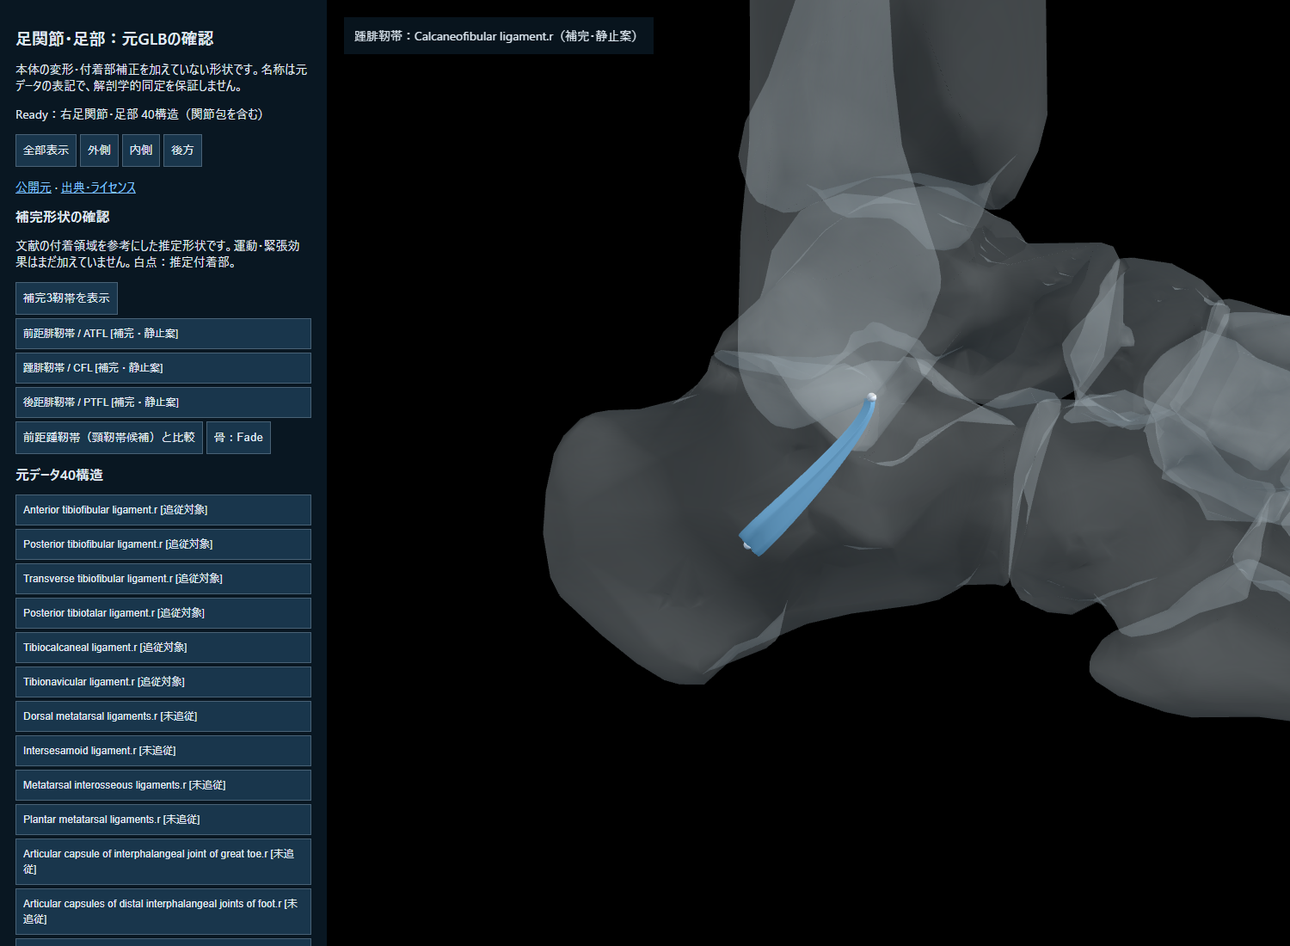
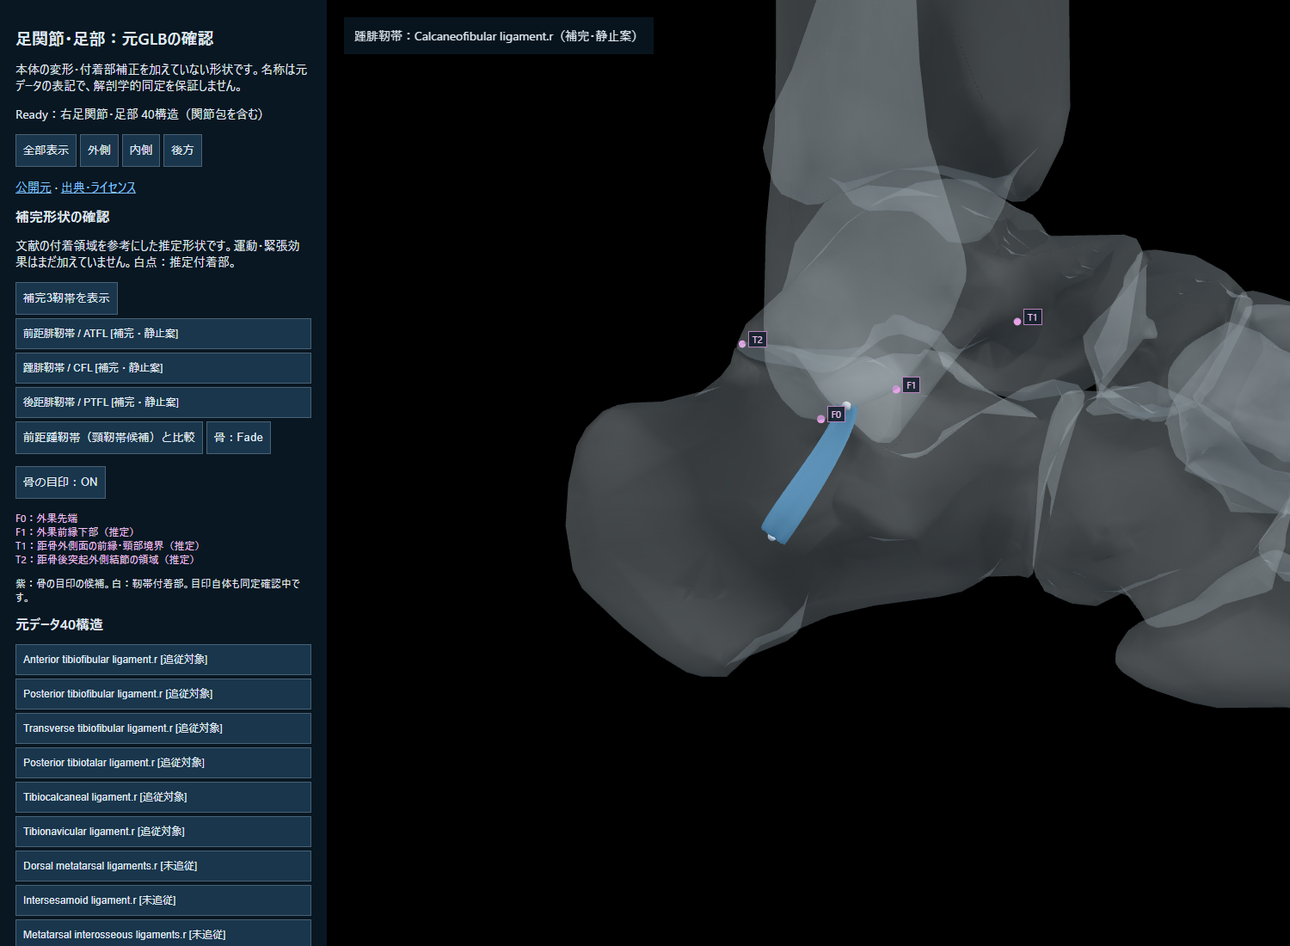
Constrain attachment regions and expose proposed bone landmarks

diff --git a/src/ankle-supplements.js b/src/ankle-supplements.js
@@ -1,42 +1,53 @@
-import {Vector3,Group,Mesh,MeshStandardMaterial,SphereGeometry,BufferGeometry,Float32BufferAttribute} from 'three';
-import {ankleSupplements} from '../config/ankle-supplements.js';
+import {Vector3,Triangle,Group,Mesh,MeshStandardMaterial,SphereGeometry,BufferGeometry,Float32BufferAttribute} from 'three';
+import {ankleSupplements,ankleReviewLandmarks} from '../config/ankle-supplements.js';
+
+// Clip the actual surface triangle to a proposed anatomical region. Filtering
+// only its unconstrained closest point can falsely report an empty region.
+function regionPoint(face,surface,seed,region){
+ let polygon=[face.triangle.a,face.triangle.b,face.triangle.c].map(p=>p.clone().applyMatrix4(surface.world));
+ for(const [axis,[lo,hi]] of Object.entries(region))for(const [limit,sign] of [[lo,1],[hi,-1]]){
+  const next=[];for(let i=0;i<polygon.length;i++){const a=polygon[i],b=polygon[(i+1)%polygon.length],da=sign*(a[axis]-limit),db=sign*(b[axis]-limit);if(da>=0)next.push(a);if((da>=0)!==(db>=0))next.push(a.clone().lerp(b,da/(da-db)));}polygon=next;if(polygon.length<3)return null;
+ }
+ let best=null,distance=Infinity;for(let i=1;i<polygon.length-1;i++){const p=new Triangle(polygon[0],polygon[i],polygon[i+1]).closestPointToPoint(seed,new Vector3()),d=p.distanceToSquared(seed);if(d<distance){best=p;distance=d;}}return best;
+}
 
 // Static review geometry only. No modification of raw source meshes, axes,
 // existing followers or tension rules. Footprints are projected onto real bone
 // triangles; anatomical locations remain review estimates, not registered scans.
 export function createAnkleSupplements(bones){
  const fibula=bones.get('Fibula.r'),all=[...bones.values()],vertices=fibula.faces.flatMap(f=>[f.triangle.a,f.triangle.b,f.triangle.c].map(p=>p.clone().applyMatrix4(fibula.world))),tip=vertices.reduce((a,b)=>a.y<b.y?a:b).clone();
- const outside=(p,owner=null,tolerance=.000025)=>!all.some(s=>{if(s===owner)return false;const q=p.clone().applyMatrix4(s.inverse);return s.tree.box.containsPoint(q)&&s.insideLocal(q)&&s.nearestLocal(q).distance>tolerance;});
- function fit(seed,surface,normalPreference){
+ let collision=null;const outside=(p,owner=null,tolerance=.000025)=>!all.some(s=>{if(s===owner)return false;const q=p.clone().applyMatrix4(s.inverse),bad=s.tree.box.containsPoint(q)&&s.insideLocal(q)&&s.nearestLocal(q).distance>tolerance;if(bad)collision={bone:s.bone.userData.za_name,p:p.toArray(),depth:s.nearestLocal(q).distance};return bad;});
+ function fit(seed,surface,normalPreference,region=null,minDot=.65){
   const local=seed.clone().applyMatrix4(surface.inverse),candidates=surface.faces.map(f=>{
-   const p=f.triangle.closestPointToPoint(local,new Vector3()).applyMatrix4(surface.world),n=f.triangle.getNormal(new Vector3()).multiplyScalar(surface.normalSign).transformDirection(surface.world);
-   return {p,n,surface,triangle:f.triangle,score:p.distanceToSquared(seed),facing:!normalPreference||n.dot(normalPreference.clone().normalize())>.65};
-  }).filter(c=>c.facing&&outside(c.p,surface));
-  candidates.sort((a,b)=>a.score-b.score);if(!candidates.length)throw Error('No exposed attachment surface');return candidates[0];
+   const p=region?regionPoint(f,surface,seed,region):f.triangle.closestPointToPoint(local,new Vector3()).applyMatrix4(surface.world);if(!p)return null;const n=f.triangle.getNormal(new Vector3()).multiplyScalar(surface.normalSign).transformDirection(surface.world);
+   return {p,n,surface,triangle:f.triangle,score:p.distanceToSquared(seed),facing:!normalPreference||n.dot(normalPreference.clone().normalize())>minDot};
+  }).filter(c=>c&&c.facing&&outside(c.p,surface));
+  candidates.sort((a,b)=>a.score-b.score);if(!candidates.length)throw Error('No exposed attachment surface: '+surface.bone.userData.za_name+' '+JSON.stringify(region));return candidates[0];
  }
  const entries=[];
  for(const spec of ankleSupplements){
   const distal=bones.get(spec.bone),seed=tip.clone().add(new Vector3(...spec.fibularOffset));
-  const a=fit(seed,fibula,spec.fibularSide==='anterior'?new Vector3(0,0,1):new Vector3(1,0,0)),b=fit(new Vector3(...spec.distalSeed),distal,spec.id==='PTFL'?new Vector3(0,0,-1):spec.id==='ATFL'?new Vector3(-.7,0,.7):new Vector3(-1,0,0));
+  const a=fit(seed,fibula,spec.fibularSide==='anterior'?new Vector3(0,0,1):new Vector3(1,0,0),spec.fibularRegion,spec.id==='CFL'?.3:.65),b=fit(new Vector3(...spec.distalSeed),distal,spec.id==='PTFL'?new Vector3(0,-.4,-1):spec.id==='ATFL'?new Vector3(-.5,0,.866):new Vector3(-1,0,0),spec.distalRegion);
   const axis=b.p.clone().sub(a.p).normalize(),outward=new Vector3(...spec.outward).normalize(),side=new Vector3().crossVectors(axis,outward).normalize(),rows=48,cols=8,anchors=new Map(),base=[],indices=[],handle=Math.min(.004,a.p.distanceTo(b.p)*.25);
   for(let r=0;r<=rows;r++)for(let c=0;c<=cols;c++){
-   const t=r/rows,lateral=(c/cols-.5)*spec.width*(.8+.2*Math.sin(Math.PI*t));let p;
+   const t=r/rows,lateral=(c/cols-.5)*(r===rows&&spec.distalFootprintWidth?spec.distalFootprintWidth:spec.width*(.8+.2*Math.sin(Math.PI*t)));let p;
    if(r===0||r===rows){const end=r===0?a:b,foot=fit(end.p.clone().addScaledVector(side,lateral),end.surface,end.n);p=foot.p;anchors.set(base.length,foot);}
    else p=a.p.clone().multiplyScalar((1-t)**3).addScaledVector(a.p.clone().addScaledVector(a.n,handle),3*(1-t)**2*t).addScaledVector(b.p.clone().addScaledVector(b.n,handle),3*(1-t)*t*t).addScaledVector(b.p,t**3).addScaledVector(side,lateral);
    base.push(p);
   }
   // Each fibre connects its own footprint rather than a central origin.
-  for(let c=0;c<=cols;c++){const fa=anchors.get(c),fb=anchors.get(rows*(cols+1)+c);for(let r=1;r<rows;r++){const t=r/rows;base[r*(cols+1)+c]=fa.p.clone().multiplyScalar((1-t)**3).addScaledVector(fa.p.clone().addScaledVector(fa.n,handle),3*(1-t)**2*t).addScaledVector(fb.p.clone().addScaledVector(fb.n,handle),3*(1-t)*t*t).addScaledVector(fb.p,t**3);}}
+  for(let c=0;c<=cols;c++){const fa=anchors.get(c),fb=anchors.get(rows*(cols+1)+c);for(let r=1;r<rows;r++){const t=r/rows;base[r*(cols+1)+c]=fa.p.clone().multiplyScalar((1-t)**3).addScaledVector(fa.p.clone().addScaledVector(fa.n,handle),3*(1-t)**2*t).addScaledVector(fb.p.clone().addScaledVector(spec.id==='PTFL'?fb.n.clone().setY(Math.max(0,fb.n.y)).normalize():fb.n,spec.id==='PTFL'?Math.min(handle,.002):handle),3*(1-t)*t*t).addScaledVector(fb.p,t**3);}}
   for(let r=0;r<rows;r++)for(let c=0;c<cols;c++){const i=r*(cols+1)+c;indices.push(i,i+1,i+cols+1,i+1,i+cols+2,i+cols+1);}
-  const build=height=>base.map((p,i)=>{if(anchors.has(i))return p.clone();const t=Math.floor(i/(cols+1))/rows,c=i%(cols+1),direction=spec.id==='PTFL'?outward.clone().lerp(anchors.get(rows*(cols+1)+c).n,t*t).normalize():outward;return p.clone().addScaledVector(direction,Math.sqrt(Math.sin(Math.PI*t))*height);});
+  const build=height=>base.map((p,i)=>{if(anchors.has(i))return p.clone();const t=Math.floor(i/(cols+1))/rows,c=i%(cols+1),direction=spec.id==='PTFL'?outward.clone().lerp(anchors.get(rows*(cols+1)+c).n.clone().setY(Math.max(0,anchors.get(rows*(cols+1)+c).n.y)).normalize(),t*t).normalize():outward;return p.clone().addScaledVector(direction,Math.sqrt(Math.sin(Math.PI*t))*height);});
   const valid=ps=>ps.every((p,i)=>anchors.has(i)||outside(p))&&indices.every((_,i)=>i%3||outside(ps[indices[i]].clone().add(ps[indices[i+1]]).add(ps[indices[i+2]]).divideScalar(3)));
   let height=0,positions=build(0);for(;height<.025&&!valid(positions);height+=.00025)positions=build(height+.00025);
-  const routeValid=valid(positions);if(!routeValid)throw Error(spec.id+': static route could not clear bones');
+  const routeValid=valid(positions);if(!routeValid)throw Error(spec.id+': static route could not clear bones '+JSON.stringify({a:a.p.toArray(),b:b.p.toArray(),collision}));
   const geometry=new BufferGeometry().setAttribute('position',new Float32BufferAttribute(positions.flatMap(p=>p.toArray()),3)).setIndex(indices);geometry.computeVertexNormals();
   const group=new Group(),mesh=new Mesh(geometry,new MeshStandardMaterial({color:0x82b9e1,roughness:.7,side:2}));mesh.userData.za_name=spec.name;group.add(mesh);
   for(const [end,f] of [['腓骨',a],[spec.bone==='Talus.r'?'距骨':'踵骨',b]]){const marker=new Mesh(new SphereGeometry(.00065,12,8),new MeshStandardMaterial({color:0xf4f8ff,roughness:.5}));marker.position.copy(f.p);marker.userData.label=spec.jp+'：'+end+'付着部（推定）';group.add(marker);}
   const actual=positions.map((_,i)=>new Vector3().fromBufferAttribute(geometry.attributes.position,i)),gap=Math.max(...[...anchors].map(([i,f])=>f.surface.nearest(actual[i]).distance)),depth=p=>Math.max(0,...all.map(s=>-s.signedDistance(p)));let maxBodyPenetration=0,maxFacePenetration=0;for(let i=0;i<actual.length;i++)if(!anchors.has(i))maxBodyPenetration=Math.max(maxBodyPenetration,depth(actual[i]));for(let i=0;i<indices.length;i+=3)maxFacePenetration=Math.max(maxFacePenetration,depth(actual[indices[i]].clone().add(actual[indices[i+1]]).add(actual[indices[i+2]]).divideScalar(3)));
   entries.push({name:spec.name,jp:spec.jp,id:spec.id,node:group,mesh,a:a.p.toArray(),b:b.p.toArray(),bones:['Fibula.r',spec.bone],fibularTip:tip.toArray(),span:a.p.distanceTo(b.p),width:spec.width,routeHeight:height,routeValid,maxBodyPenetration,maxFacePenetration,maxFootprintGap:gap,source:'original schematic supplement; static review only',anatomicalStatus:'estimated model landmarks; awaiting user review'});
  }
+ entries.landmarks=ankleReviewLandmarks.map(r=>{const surface=bones.get(r.bone),p=r.id==='F0'?tip.clone():fit(new Vector3(...r.seed),surface,new Vector3(...r.normal)).p;return {...r,point:p.toArray(),surfaceGap:surface.nearest(p).distance,status:'proposed landmark; anatomical review pending'};});
  return entries;
 }

diff --git a/src/ankle-source-review.js b/src/ankle-source-review.js
@@ -8,12 +8,13 @@ import {ankleLigaments} from '../config/ankle-ligaments.js';
 const host=document.querySelector('main'),renderer=new T.WebGLRenderer({antialias:true}),scene=new T.Scene(),camera=new T.PerspectiveCamera(35,1,.001,10),controls=new OrbitControls(camera,renderer.domElement);
 host.append(renderer.domElement);scene.add(new T.HemisphereLight(0xffffff,0x4b606e,2));const light=new T.DirectionalLight(0xffffff,2);light.position.set(-1,2,2);scene.add(light);
 const loader=new GLTFLoader().setDRACOLoader(new DRACOLoader().setDecoderPath('./vendor/three/draco/')),named=[],inventory={},bones=new Map(),records=[],supplements=[],target=new T.Vector3(-.075,.06,.015);
+const landmarkObjects=[];let landmarksOn=true;
 let currentView='lateral',closeView=false;const footTarget=new T.Vector3();
 function view(kind){currentView=kind;camera.position.copy(target).add(kind==='medial'?new T.Vector3(.46,.10,.03):kind==='posterior'?new T.Vector3(0,.10,-.46):new T.Vector3(-.46,.10,.03));if(closeView)camera.position.sub(target).multiplyScalar(.43).add(target);controls.target.copy(target);controls.update();}
 function show(name=null){
  const generated=name==='supplements'||name==='cervical-review'||supplements.some(r=>r.name===name);
  for(const r of [...records,...supplements])r.node.traverse(o=>{if(o.isMesh){o.visible=name==='cervical-review'?(supplements.includes(r)||r.name==='Anterior talocalcaneal ligament.r'):name==='supplements'?supplements.includes(r):name?r.name===name:records.includes(r);o.material.emissive.setHex(r.name===name?0x174560:0);}});
- closeView=generated;target.copy(footTarget);if(generated){const pts=supplements.filter(r=>name==='supplements'||name==='cervical-review'||r.name===name).flatMap(r=>[new T.Vector3(...r.a),new T.Vector3(...r.b)]);target.copy(new T.Box3().setFromPoints(pts).getCenter(new T.Vector3()));}
+ closeView=generated;for(const r of landmarkObjects){r.marker.visible=generated&&landmarksOn;r.element.hidden=!r.marker.visible;}target.copy(footTarget);if(generated){const pts=supplements.filter(r=>name==='supplements'||name==='cervical-review'||r.name===name).flatMap(r=>[new T.Vector3(...r.a),new T.Vector3(...r.b)]);target.copy(new T.Box3().setFromPoints(pts).getCenter(new T.Vector3()));}
  document.querySelector('#label').textContent=generated?(name==='cervical-review'?'補完3靭帯＋元の前距踵靭帯（頸靭帯との対応候補・未確定）':name==='supplements'?'補完3靭帯：静止形状の確認案／白点は推定付着部':supplements.find(r=>r.name===name).jp+'：'+name+'（補完・静止案）'):(name||'全構造（元形状）');
  document.querySelectorAll('#list button').forEach(b=>b.classList.toggle('selected',b.dataset.name===name));view(currentView);
 }
@@ -43,9 +44,12 @@ try{
   records.push(r);const button=document.createElement('button');button.dataset.name=r.name;button.textContent=r.name+(row.activeFollower?' [追従対象]':' [未追従]');button.onclick=()=>show(r.name);document.querySelector('#list').append(button);
  }
  const footBox=new T.Box3();for(const r of records)footBox.union(new T.Box3().setFromObject(r.node));target.copy(footBox.getCenter(new T.Vector3()));footTarget.copy(target);
- for(const r of createAnkleSupplements(bones)){supplements.push(r);scene.add(r.node);r.node.traverse(o=>{if(o.isMesh)o.visible=false;});const button=document.createElement('button');button.dataset.name=r.name;button.textContent=r.jp+' / '+r.id+' [補完・静止案]';button.onclick=()=>show(r.name);document.querySelector('#supplementList').append(button);}
- window.sourceReview={inventory,show,view,supplements:()=>supplements.map(({node,mesh,...r})=>r)};document.querySelector('#status').textContent='Ready：右足関節・足部 '+records.length+'構造（関節包を含む）';
+ const draft=createAnkleSupplements(bones);
+ for(const info of draft.landmarks){const marker=new T.Mesh(new T.SphereGeometry(.00055,10,6),new T.MeshBasicMaterial({color:0xe6a2e8}));marker.position.fromArray(info.point);marker.visible=false;scene.add(marker);const element=document.createElement('span');element.className='landmarkTag';element.textContent=info.id;element.hidden=true;element.title=info.label+'：推定ランドマーク';host.append(element);landmarkObjects.push({info,marker,element});const item=document.createElement('div');item.textContent=info.id+'：'+info.label;document.querySelector('#landmarkLegend').append(item);}
+ for(const r of draft){supplements.push(r);scene.add(r.node);r.node.traverse(o=>{if(o.isMesh)o.visible=false;});const button=document.createElement('button');button.dataset.name=r.name;button.textContent=r.jp+' / '+r.id+' [補完・静止案]';button.onclick=()=>show(r.name);document.querySelector('#supplementList').append(button);}
+ window.sourceReview={inventory,show,view,landmarks:()=>draft.landmarks,supplements:()=>supplements.map(({node,mesh,...r})=>r)};document.querySelector('#status').textContent='Ready：右足関節・足部 '+records.length+'構造（関節包を含む）';
+ document.querySelector('#landmarkToggle').onclick=()=>{landmarksOn=!landmarksOn;for(const r of landmarkObjects){r.marker.visible=closeView&&landmarksOn;r.element.hidden=!r.marker.visible;}document.querySelector('#landmarkToggle').textContent=landmarksOn?'骨の目印：ON':'骨の目印：OFF';};
  document.querySelector('#all').onclick=()=>show();document.querySelectorAll('[data-view]').forEach(b=>b.onclick=()=>view(b.dataset.view));view('lateral');document.querySelector('#supplements').onclick=()=>show('supplements');document.querySelector('#cervicalCompare').onclick=()=>show('cervical-review');let opaque=false;document.querySelector('#boneReview').onclick=()=>{opaque=!opaque;for(const r of named.filter(r=>r.system==='skeletal'))for(const m of r.meshes){m.material.opacity=opaque?1:.24;m.material.transparent=!opaque;m.material.depthWrite=opaque;}document.querySelector('#boneReview').textContent=opaque?'骨：ON':'骨：Fade';};if(new URLSearchParams(location.search).has('supplements'))show('supplements');
 }catch(e){document.querySelector('#status').textContent=String(e);console.error(e);}
 new ResizeObserver(()=>{camera.aspect=host.clientWidth/host.clientHeight;camera.updateProjectionMatrix();renderer.setSize(host.clientWidth,host.clientHeight);}).observe(host);
-renderer.setAnimationLoop(()=>{controls.update();renderer.render(scene,camera);});
+renderer.setAnimationLoop(()=>{controls.update();for(const r of landmarkObjects){if(!r.marker.visible)continue;const p=r.marker.position.clone().project(camera);r.element.hidden=p.z>1||p.z<-1;r.element.style.left=((p.x+1)*host.clientWidth/2+7)+'px';r.element.style.top=((-p.y+1)*host.clientHeight/2-15)+'px';}renderer.render(scene,camera);});

diff --git a/ankle-source-review.html b/ankle-source-review.html
@@ -1,4 +1,4 @@
 <!doctype html><html lang="ja"><meta charset="utf-8"><meta name="robots" content="noindex,nofollow"><title>足関節・足部 元データ確認</title>
-<style>body{margin:0;background:#091722;color:#e0eaf3;font:14px system-ui;display:grid;grid-template-columns:380px 1fr;height:100vh}aside{padding:18px;overflow:auto}h1{font-size:19px}button{background:#19364c;color:inherit;border:1px solid #496276;padding:8px;cursor:pointer}#list button, #supplementList button{display:block;width:100%;text-align:left;margin:4px 0;font-size:12px}#list button.selected{background:#285979}main{position:relative;min-width:0}canvas{display:block}#label{position:absolute;top:20px;left:20px;max-width:70%;background:#091722dd;padding:12px}a{color:#80c4ff}</style>
+<style>body{margin:0;background:#091722;color:#e0eaf3;font:14px system-ui;display:grid;grid-template-columns:380px 1fr;height:100vh}aside{padding:18px;overflow:auto}h1{font-size:19px}button{background:#19364c;color:inherit;border:1px solid #496276;padding:8px;cursor:pointer}#list button, #supplementList button{display:block;width:100%;text-align:left;margin:4px 0;font-size:12px}#list button.selected{background:#285979}main{position:relative;min-width:0}canvas{display:block}#label{position:absolute;top:20px;left:20px;max-width:70%;background:#091722dd;padding:12px}a{color:#80c4ff}.landmarkTag{position:absolute;color:#f2c2f4;background:#15212de8;border:1px solid #b982bd;padding:1px 4px;font-size:11px;pointer-events:none}#landmarkLegend{font-size:12px;color:#f2c2f4;margin:8px 0}</style>
 <script type="importmap">{"imports":{"three":"./vendor/three/build/three.module.js","three/addons/":"./vendor/three/addons/"}}</script>
-<aside><h1>足関節・足部：元GLBの確認</h1><p>本体の変形・付着部補正を加えていない形状です。名称は元データの表記で、解剖学的同定を保証しません。</p><p id="status">読み込み中</p><button id="all">全部表示</button> <button data-view="lateral">外側</button> <button data-view="medial">内側</button> <button data-view="posterior">後方</button><p><a href="https://github.com/nqwrc/3d-anatomy">公開元</a> · <a href="credits.html">出典・ライセンス</a></p><h2 style="font-size:16px">補完形状の確認</h2><p>文献の付着領域を参考にした推定形状です。運動・緊張効果はまだ加えていません。白点：推定付着部。</p><button id="supplements">補完3靭帯を表示</button><div id="supplementList"></div><button id="cervicalCompare">前距踵靭帯（頸靭帯候補）と比較</button> <button id="boneReview">骨：Fade</button><h2 style="font-size:16px">元データ40構造</h2><div id="list"></div></aside><main><div id="label">全構造</div></main><script type="module" src="./src/ankle-source-review.js"></script></html>
+<aside><h1>足関節・足部：元GLBの確認</h1><p>本体の変形・付着部補正を加えていない形状です。名称は元データの表記で、解剖学的同定を保証しません。</p><p id="status">読み込み中</p><button id="all">全部表示</button> <button data-view="lateral">外側</button> <button data-view="medial">内側</button> <button data-view="posterior">後方</button><p><a href="https://github.com/nqwrc/3d-anatomy">公開元</a> · <a href="credits.html">出典・ライセンス</a></p><h2 style="font-size:16px">補完形状の確認</h2><p>文献の付着領域を参考にした推定形状です。運動・緊張効果はまだ加えていません。白点：推定付着部。</p><button id="supplements">補完3靭帯を表示</button><div id="supplementList"></div><button id="cervicalCompare">前距踵靭帯（頸靭帯候補）と比較</button> <button id="boneReview">骨：Fade</button><p><button id="landmarkToggle">骨の目印：ON</button></p><div id="landmarkLegend"></div><p style="font-size:12px">紫：骨の目印の候補。白：靭帯付着部。目印自体も同定確認中です。</p><h2 style="font-size:16px">元データ40構造</h2><div id="list"></div></aside><main><div id="label">全構造</div></main><script type="module" src="./src/ankle-source-review.js"></script></html>

diff --git a/config/ankle-supplements.js b/config/ankle-supplements.js
@@ -4,7 +4,15 @@
 // Regional landmarks inform these explicitly estimated 3D offsets;
 // the surface matching and illustrative widths below are original estimates.
 export const ankleSupplements=[
- {id:'ATFL',name:'Anterior talofibular ligament.r',jp:'前距腓靭帯',bone:'Talus.r',fibularOffset:[.001,.009,.010],fibularSide:'anterior',distalSeed:[-.087,.061,-.029],width:.007,outward:[-1,0,.25]},
- {id:'CFL',name:'Calcaneofibular ligament.r',jp:'踵腓靭帯',bone:'Calcaneus.r',fibularOffset:[.001,.003,.0045],fibularSide:'anterior',distalSeed:[-.099,.039,-.060],width:.005,outward:[-1,0,0]},
- {id:'PTFL',name:'Posterior talofibular ligament.r',jp:'後距腓靭帯',bone:'Talus.r',fibularOffset:[.007,.005,-.002],fibularSide:'medial-posterior',distalSeed:[-.083,.064,-.069],width:.007,outward:[.6,0,-1]}
+ {id:'ATFL',name:'Anterior talofibular ligament.r',jp:'前距腓靭帯',bone:'Talus.r',fibularOffset:[.001,.009,.010],fibularSide:'anterior',distalSeed:[-.085,.062,-.023],distalRegion:{z:[-.028,-.018]},width:.007,outward:[-1,0,.25]},
+ {id:'CFL',name:'Calcaneofibular ligament.r',jp:'踵腓靭帯',bone:'Calcaneus.r',fibularOffset:[.002,.0015,.003],fibularRegion:{y:[.056,.0582],z:[-.049,-.043]},fibularSide:'anterior',distalSeed:[-.099,.039,-.060],width:.005,outward:[-1,0,0]},
+ {id:'PTFL',name:'Posterior talofibular ligament.r',jp:'後距腓靭帯',bone:'Talus.r',fibularOffset:[.007,.005,-.002],fibularSide:'medial-posterior',distalSeed:[-.081,.058,-.066],distalRegion:{x:[-.088,-.077],y:[.055,.062],z:[-.069,-.060]},width:.007,distalFootprintWidth:.0035,outward:[.6,0,-1]}
+];
+
+// Proposed bone landmarks for joint review, not independent registrations.
+export const ankleReviewLandmarks=[
+ {id:'F0',label:'外果先端',bone:'Fibula.r',method:'mesh minimum Y'},
+ {id:'F1',label:'外果前縁下部（推定）',bone:'Fibula.r',seed:[-.100,.058,-.047],normal:[0,0,1]},
+ {id:'T1',label:'距骨外側面の前縁・頸部境界（推定）',bone:'Talus.r',seed:[-.085,.064,-.024],normal:[-.6,0,.8]},
+ {id:'T2',label:'距骨後突起外側結節の領域（推定）',bone:'Talus.r',seed:[-.081,.0575,-.066],normal:[0,0,-1]}
 ];

diff --git a/docs/ANKLE_SUPPLEMENTS_DESIGN.md b/docs/ANKLE_SUPPLEMENTS_DESIGN.md
@@ -52,3 +52,18 @@
 - 端部投影では面法線が希望方向から大きく外れる面を除外する。骨に触れるだけの任意の面を採用しない。
 
 検証は実描画の頂点での端部接触・中間頂点と面重心での骨内外判定、左右・前後・上下の相対走行を対象とする。これらは解剖学的な付着点の正しさを証明するものではない。現在もユーザーによる位置・走行の確認段階であり、運動追従には進めていない。
+
+## ランドマーク併記と付着領域制約の追加
+
+ユーザー指摘（ATFLは前方、CFL腓骨側は中央下、PTFL距骨側は下方）に対する第2回修正。
+
+- 紫のF0/F1/T1/T2と名称凡例を確認画面に追加。F0はメッシュ最下点、他の3点は骨表面へ投影した提案ランドマークで、独立に同定・登録した真値ではない。白点の靭帯端とは区別して表示し、ON/OFF可能。
+- ATFL距骨側：前方領域を指定し、前回から約6.0mm前方へ移動。外側関節面前縁・頸部境界を対象とし、距骨頭の前面を対象にはしない。
+- CFL腓骨側：外果先端に近い前縁下部に領域を限定し、前回から約2.2mm下方・6.6mm後方へ移動。先端の丸みは前方だけを向く平面ではないので、ここは法線の前方成分の閾値を0.3とする。他の選択では0.65を保持。
+- PTFL距骨側：後突起の外側領域を指定し、約0.6mm下方へ移動。さらに数mm下方へ指定すると、本モデルでは露出面不足または踵骨との干渉を生じる。希望する見え方に合わせて骨下面へ強制移動しない。停止幅は模式的に3.5mmとし、下方へ曲がって踵骨へ入る曲線を除く。これらは文献の正常幅や形状の再現値ではない。
+- 領域制約では元の骨三角形を指定した座標範囲でクリップして、その中の最近点を求める。通常の最近点が範囲外であるだけで領域全体を捨てない。
+- PTFLの経路補正は今回3.25mmを要する。以前の固定2mm未満という見た目の回帰条件を外し、中心間距離の20%未満という模式形状の膨らみ上限に変更。これは解剖学的な正常値ではなく、今回の確認案の形状制約。接触・非貫通の許容値は緩めていない。
+
+[ATFLの機能解剖研究](https://pmc.ncbi.nlm.nih.gov/articles/PMC1570702/)の距骨外側関節面前縁という記載と、[PTFLの後外側結節への付着領域の献体研究](https://pmc.ncbi.nlm.nih.gov/articles/PMC8220623/)を部位の確認に用いた。個別GLBへの解剖学的な登録を実施した研究ではないため、今回の座標をそれらの研究が保証するものとは扱わない。
+
+骨表面への接触・経路・目印表示切替を実画面で検証済み。解剖学的妥当性の確認は未完で、静止形状の段階を維持する。
